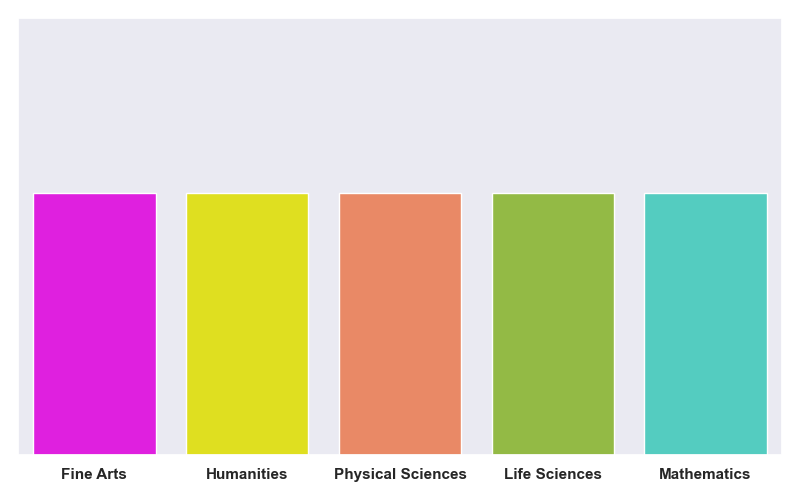
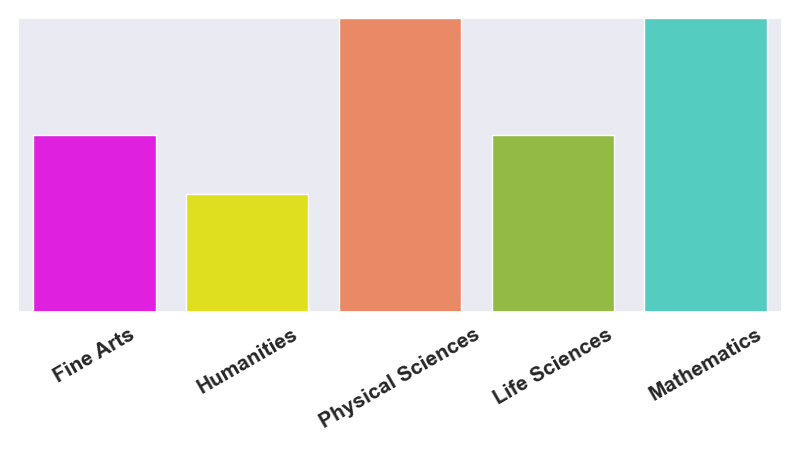
radar plot and UI improvement

diff --git a/Survey app/templates/index.html b/Survey app/templates/index.html
@@ -147,14 +147,21 @@
 
 <h1>Your Personalized Graphs:</h1>
 
+<h2>Skills Radar:</h2>
+
 <img src="{{ url_for('static', filename='graph.png') }}">
 
 {% if graph_exists %}
 
-<h2>Execution Style:</h2>
+<img src="{{ url_for('static', filename='graph3.png') }}">
+
+{% endif %}
+
+{% if graph_exists %}
+
+<h2>Execution And Thinking Styles:</h2>
 <img src="{{ url_for('static', filename='graph1.png') }}">
 
-<h2>Thinking Style:</h2>
 <img src="{{ url_for('static', filename='graph2.png') }}">
 
 {% endif %}

diff --git a/Survey app/app.py b/Survey app/app.py
@@ -6,6 +6,7 @@ matplotlib.use("Agg") # supress matplotlib from trying to open a GUI
 import matplotlib.pyplot as plt
 import seaborn as sns
 import pandas as pd
+import numpy as np
 
 app = Flask(__name__)
 
@@ -82,7 +83,7 @@ def index():
         ############# barchart
 
         colors = ["magenta", "yellow", "coral", "yellowgreen", "turquoise"]
-        plt.figure(figsize=(8,5))
+        plt.figure(figsize=(8,4.5))
         plt.xlabel(""); plt.ylabel("")
         ax = sns.barplot(data=df, x="Category", y="Value", palette=colors)
         ax.set_ylim(0,5)#; ax.set_ylabel("Score")
@@ -90,7 +91,7 @@ def index():
         
         bold_labels = {"Fine Arts", "Humanities", "Physical Sciences", "Life Sciences", "Mathematics"}
         for label in ax.get_xticklabels():
-            if label.get_text() in bold_labels: label.set_fontweight("bold")
+            if label.get_text() in bold_labels: label.set_fontweight("bold"); label.set_fontsize(15); label.set_rotation(30)
 
         
         plt.tight_layout(); plt.savefig("static/graph.png"); plt.close()
@@ -98,7 +99,7 @@ def index():
         
         ############# graph 2
 
-        plt.figure(figsize=(6, 6))
+        plt.figure(figsize=(6.5, 6))
         ax = plt.gca()
 
         plt.scatter(Q2x, Q2y, s=150, color="tomato")
@@ -124,7 +125,7 @@ def index():
         ############# graph 3
 
 
-        plt.figure(figsize=(6, 6)); ax = plt.gca()
+        plt.figure(figsize=(6.5, 6)); ax = plt.gca()
 
 
         plt.scatter(Q3x, Q3y, s=150, color="lime")
@@ -146,6 +147,45 @@ def index():
         plt.tight_layout()
         plt.savefig("static/graph2.png")
         plt.close()
+
+        ############# graph 4
+
+
+        
+        labels = ["Fine\nArts", "\n\nHumanities", "Life\nSciences", "Physical\nSciences", "Mathematics"]
+        values = [fine, human, life, phys, math]; N = len(labels)
+
+        # find our angles for each axis
+        angles = np.linspace(0, 2 * np.pi, N, endpoint=False).tolist()
+        values += values[:1]; angles += angles[:1]
+
+        fig = plt.figure(figsize=(5, 5))
+        ax = plt.subplot(111, polar=True)
+        
+                # rainbow colors?
+        # colors = ["purple", "gold", "green", "blue", "white"]#plt.cm.hsv(np.linspace(0, 1, N))
+        colors = ["cyan", "lime", "yellow", "coral", "violet"]#plt.cm.hsv(np.linspace(0, 1, N))
+
+        # draw colored segments
+        for i in range(N):
+            ax.fill(
+                [angles[i], angles[i+1], angles[i+1], angles[i]],
+                [0, 0, values[i+1], values[i]],
+                color=colors[i],
+                alpha=0.5
+            )
+        
+        ax.plot(angles, values, linewidth=2, color="black")
+        ax.fill(angles, values, alpha=0.35)#, color="dodgerblue")
+
+        ax.tick_params(axis='x', pad=25)
+        ax.set_xticks(angles[:-1])
+        ax.set_xticklabels(labels, fontsize=18, fontweight="bold")
+        ax.set_yticklabels([])
+        ax.set_ylim(0, 5)
+
+        plt.tight_layout(); plt.savefig("static/graph3.png"); plt.close()
+
 
 
         graph_exists = True
